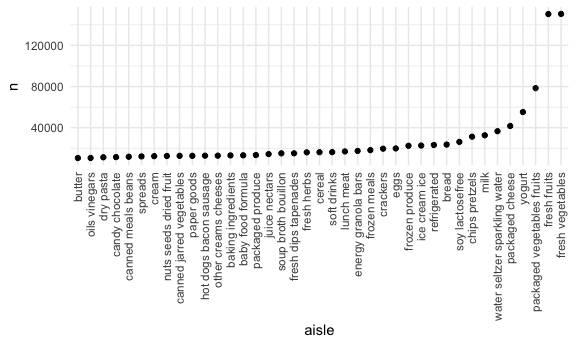
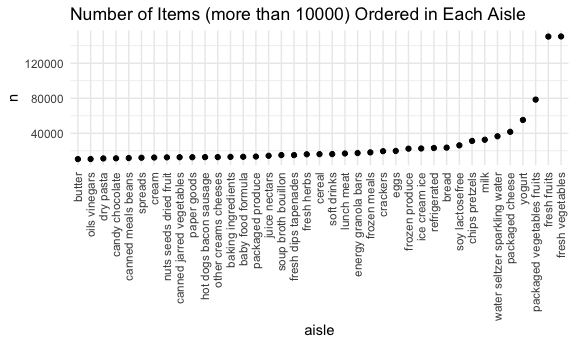
Some corrections for prob1

diff --git a/p8105_hw3_yf2563.md b/p8105_hw3_yf2563.md
@@ -91,8 +91,10 @@ codes.
 
 **Questions:**
 
-How many aisles are there, and which aisles are the most items ordered
-from?
+1.  How many aisles are there, and which aisles are the most items
+    ordered from?
+
+<!-- end list -->
 
 ``` r
 instacart %>% 
@@ -115,7 +117,12 @@ instacart %>%
     ## 10 bread                          23635
     ## # … with 124 more rows
 
-Make a plot that shows the number of items ordered in each aisle
+There are 134 aisles, and fresh vegetables is the most items ordered
+from
+
+2.  Make a plot that shows the number of items ordered in each aisle
+
+<!-- end list -->
 
   - limiting this to aisles with more than 10000 items ordered.
   - Arrange aisles sensibly, and organize your plot so others can read
@@ -133,15 +140,20 @@ instacart %>%
     ) %>% 
     ggplot(aes(x = aisle, y = n)) + 
     geom_point() + 
+  labs(
+    title = "Number of Items (more than 10000) Ordered in Each Aisle"
+  ) +
     theme(axis.text.x = element_text(angle = 90, vjust = 0.5, hjust = 1))
 ```
 
 <img src="p8105_hw3_yf2563_files/figure-gfm/unnamed-chunk-3-1.png" width="90%" />
 
-Make a table showing the three most popular items in each of the aisles
-“baking ingredients”, “dog food care”, and “packaged vegetables
-fruits”. Include the number of times each item is ordered in your
-table.
+3.  Make a table showing the three most popular items in each of the
+    aisles “baking ingredients”, “dog food care”, and “packaged
+    vegetables fruits”. Include the number of times each item is ordered
+    in your table.
+
+<!-- end list -->
 
 ``` r
 instacart %>% 
@@ -151,7 +163,7 @@ instacart %>%
     mutate(rank = min_rank(desc(n))) %>% 
     filter(rank < 4) %>% 
     arrange(aisle, rank) %>% 
-    knitr::kable()
+  knitr::kable()
 ```
 
 | aisle                      | product\_name                                 |    n | rank |
@@ -166,9 +178,11 @@ instacart %>%
 | packaged vegetables fruits | Organic Raspberries                           | 5546 |    2 |
 | packaged vegetables fruits | Organic Blueberries                           | 4966 |    3 |
 
-Make a table showing the mean hour of the day at which Pink Lady Apples
-and Coffee Ice Cream are ordered on each day of the week; format this
-table for human readers (i.e. produce a 2 x 7 table).
+4.  Make a table showing the mean hour of the day at which Pink Lady
+    Apples and Coffee Ice Cream are ordered on each day of the week;
+    format this table for human readers (i.e. produce a 2 x 7 table).
+
+<!-- end list -->
 
 ``` r
 instacart %>% 
